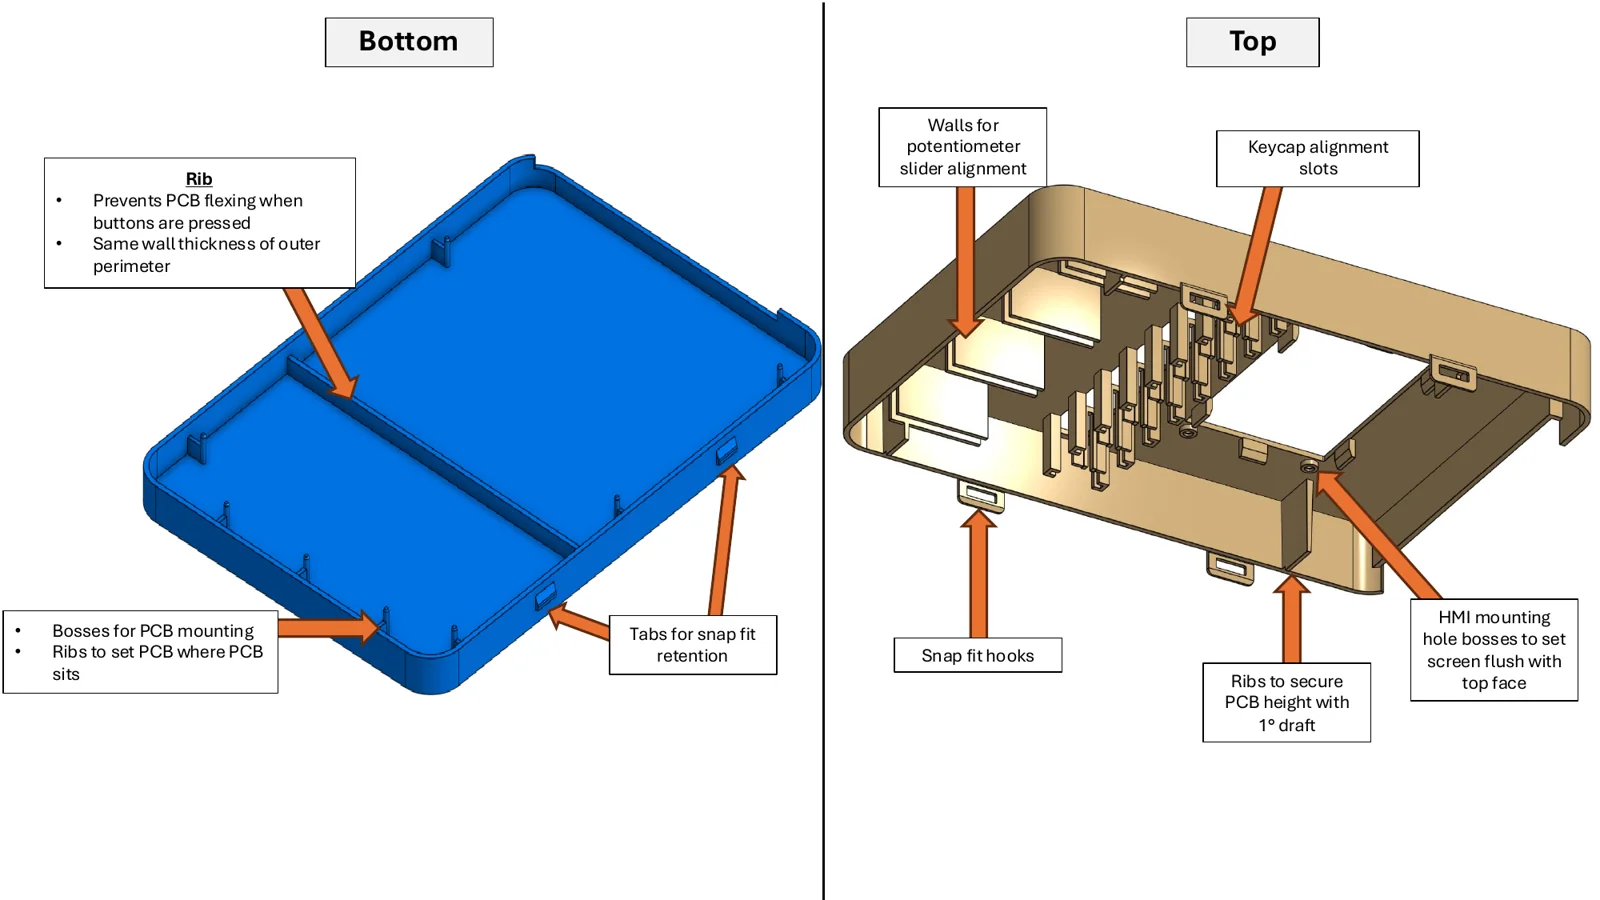
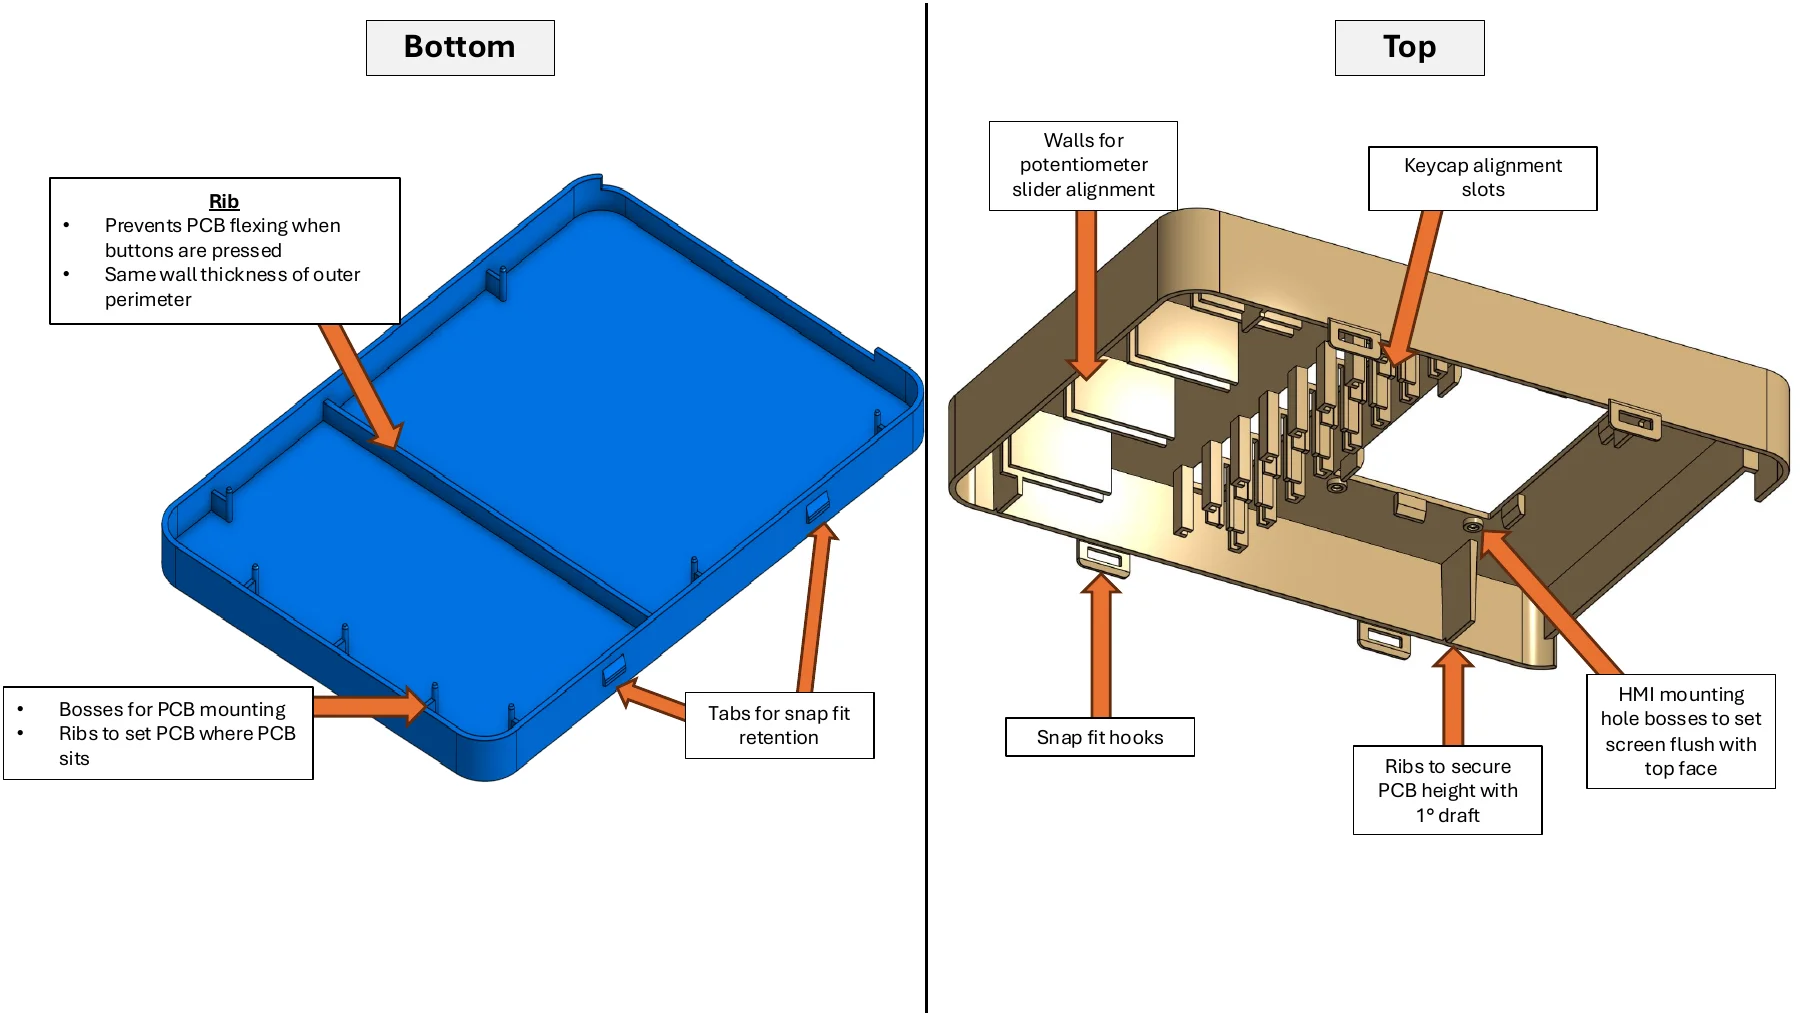
led power flow + enclosure slides

diff --git a/index.html b/index.html
@@ -829,6 +829,7 @@ html[data-theme="dark"] .cs-box{background:#26292d;border-color:#3a3e44}html[dat
 html[data-theme="dark"] .cs-box ul{color:#d6d4cf}
 .cs-table small{font-size:.8em;color:#7a8089;margin-left:2px}.cs-table td.win small{color:inherit}
 .cs-box-lead{margin-top:34px!important;border-left:4px solid #8a5a3c;background:#fdf8f3}.cs-box-lead .cs-box-t{font:700 18px/1.3 "IBM Plex Sans",system-ui,sans-serif;letter-spacing:0;text-transform:none;color:#14181d;margin-bottom:6px}html[data-theme="dark"] .cs-box-lead{background:#2b2723}html[data-theme="dark"] .cs-box-lead .cs-box-t{color:#f0ece6}
+.cs-power{justify-content:center}.cs .cs-fig img{cursor:zoom-in}
 #xp-dlg{border:0;padding:0;border-radius:14px;max-width:720px;width:calc(100% - 32px);max-height:86vh;background:var(--bg);color:var(--ink);font:400 16px/1.6 "IBM Plex Sans",system-ui,-apple-system,"Segoe UI",sans-serif;box-shadow:0 24px 70px rgba(0,0,0,.35)}
 #xp-dlg::backdrop{background:rgba(17,20,24,.55)}
 #xp-dlg .xp-in{padding:28px 32px 30px;overflow:auto;max-height:86vh;box-sizing:border-box}
@@ -1052,7 +1053,7 @@ html[data-theme="dark"] .cs-box ul{color:#d6d4cf}
         <tbody><tr><td>Upgradable without a hardware redesign</td><td>3</td><td class="win">✓ <small>3</small></td><td>✗ <small>0</small></td><td>✓ <small>3</small></td></tr><tr><td>Reliable for 40+ hours a week</td><td>3</td><td class="win">✓ <small>3</small></td><td>✓ <small>3</small></td><td>✓ <small>3</small></td></tr><tr><td>Built-in wireless firmware updates (OTA)</td><td>3</td><td class="win">✓ <small>3</small></td><td>✗ <small>0</small></td><td>✗ <small>0</small></td></tr><tr><td>Supports peripherals on different buses</td><td>2</td><td class="win">✓ <small>2</small></td><td>✓ <small>2</small></td><td>✓ <small>2</small></td></tr><tr><td>Fast boot and recovery after a power cycle</td><td>1</td><td class="win">✓ <small>1</small></td><td>✓ <small>1</small></td><td>✓ <small>1</small></td></tr></tbody>
         <tfoot><tr><td>Weighted total</td><td></td><td class="win">12</td><td>6</td><td>9</td></tr></tfoot>
       </table></div>
-      <p class="cs-cap">Each option either met what P1 needed or didn’t (✓ = weight, ✗ = 0). The Pico W can do over-the-air updates with a custom bootloader; the ESP32 has OTA built into its framework, which is what I scored.</p>
+      <div class="cs-box"><span class="cs-box-t">How it’s scored</span><p>Each option either met what P1 needed or didn’t (✓ = weight, ✗ = 0). The Pico W can do over-the-air updates with a custom bootloader; the ESP32 has OTA built into its framework, which is what I scored.</p></div>
     </section>
 
     <section class="cs-sec">
@@ -1114,6 +1115,7 @@ html[data-theme="dark"] .cs-box ul{color:#d6d4cf}
 <div class="cs-box"><span class="cs-box-t">Features</span><ul><li>A rib under the PCB stops it flexing when buttons are pressed.</li><li>Bosses and 1° draft ribs locate the board and set its height.</li><li>Slider walls and keycap slots keep the controls aligned.</li><li>Display bosses set the screen flush with the top.</li><li>Snap-fits allow tool-free opening during testing.</li></ul></div>
           <div class="cs-eq wide"><span>Snap-fit check</span><b>31.85 MPa vs 41 MPa yield → FOS 1.29</b><p>0.5 mm deflection needs 13.45 N, in Formlabs Tough 1500</p></div>
           <button type="button" class="cs-more" data-zoom="img/slide-31.webp|img/slide-34.webp|img/slide-35.webp">See the full snap-fit calculations <span aria-hidden="true">→</span></button>
+          <button type="button" class="cs-more" data-zoom="img/slide-29.webp|img/slide-30.webp">See the enclosure design slides <span aria-hidden="true">→</span></button>
         </div>
       </div>
       <div class="cs-gallery g3"><figure class="cs-fig"><img src="img/cs-cover-top.webp" alt="Top cover with slider walls, keycap slots and snap hooks" loading="lazy"><figcaption>Top cover</figcaption></figure><figure class="cs-fig"><img src="img/cs-cover-bottom.webp" alt="Bottom cover with PCB bosses and rib" loading="lazy"><figcaption>Bottom cover</figcaption></figure><figure class="cs-fig"><img src="img/cs-snap.webp" alt="Close-up of the snap-fit hook" loading="lazy"><figcaption>Snap-fit hook</figcaption></figure></div>
